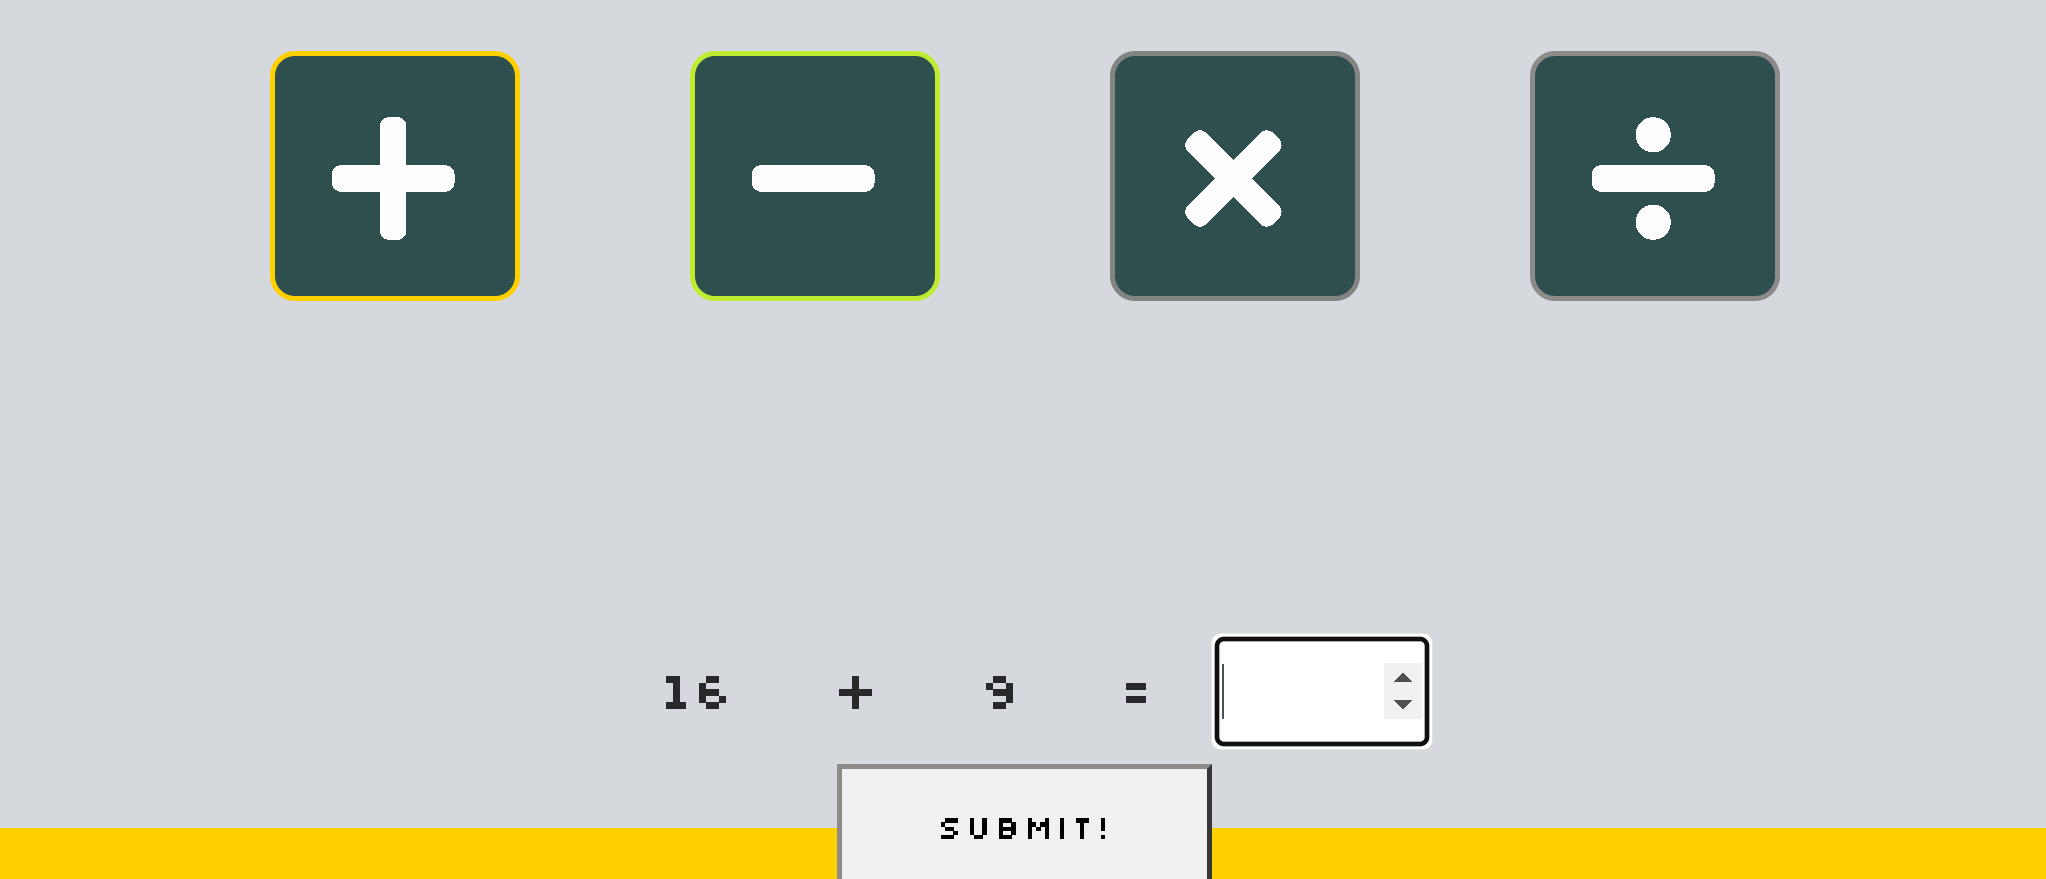
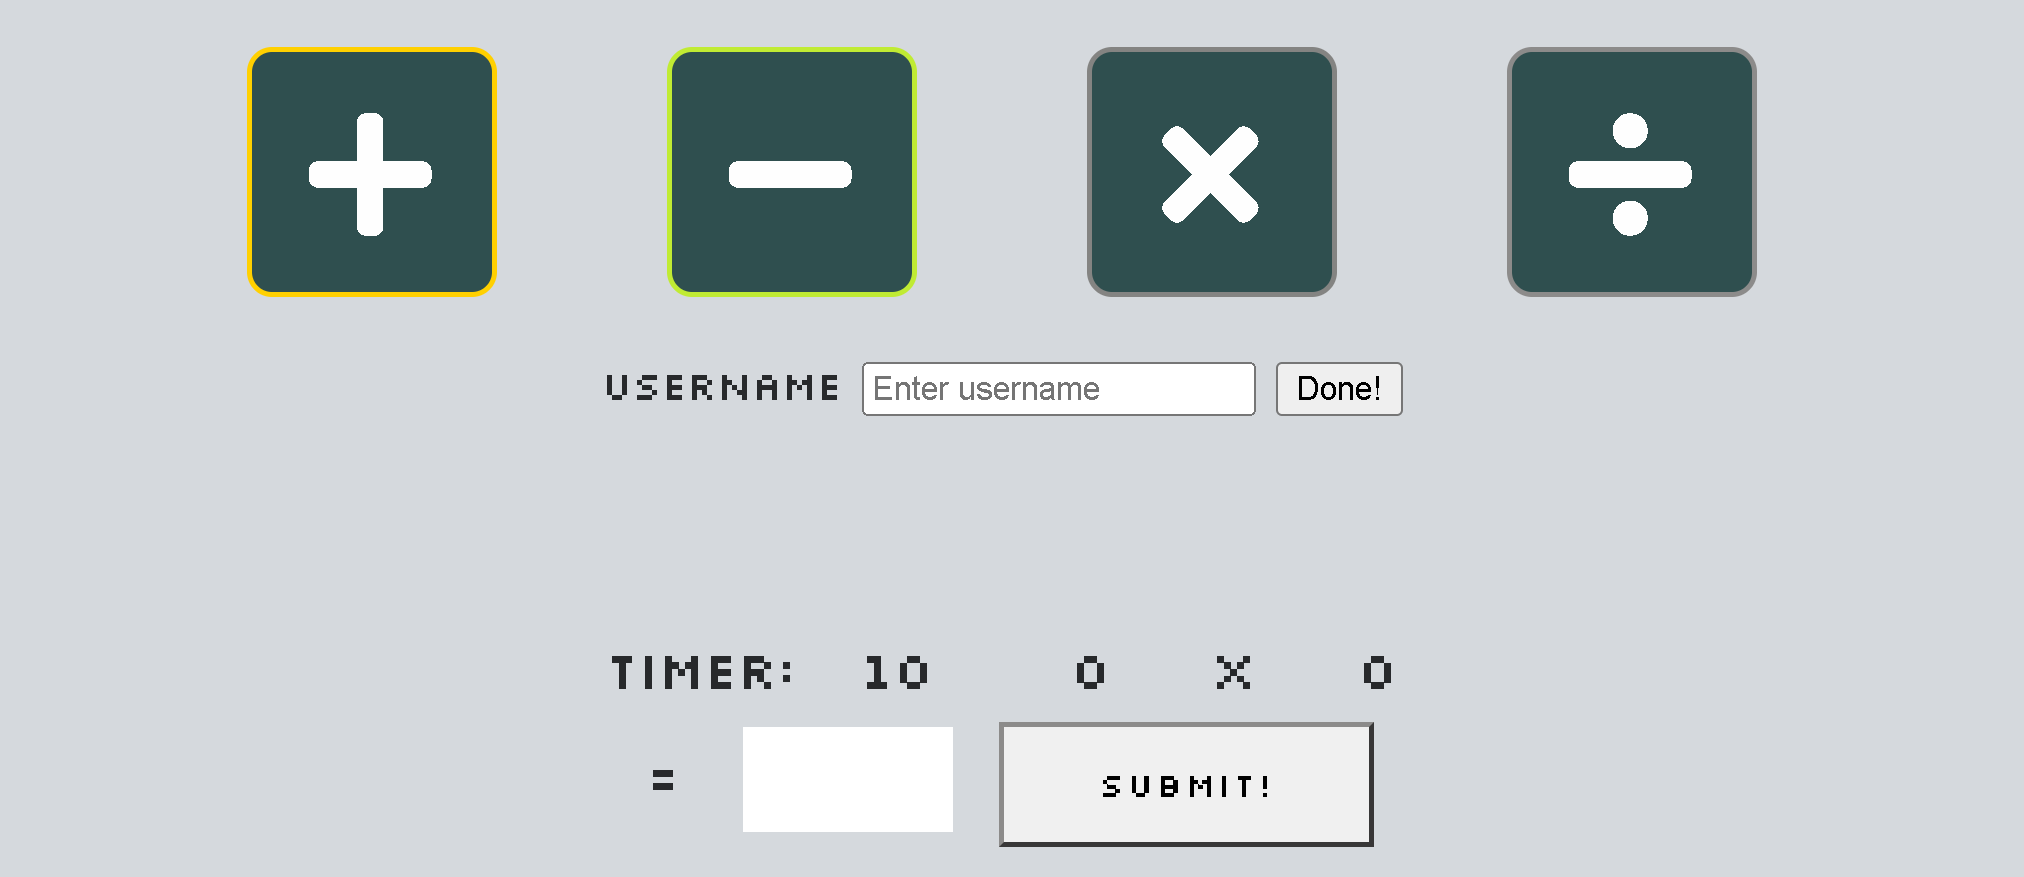
Update images and text in readme

diff --git a/README.md b/README.md
@@ -90,8 +90,10 @@ The landing page consists of a heading, a game section and a score section. The 
 ### Game Section
 ![Game section](documentation/game_section.png)
 
-- In the game section there are four buttons which gives the user the opportunity to choose between the four calculation methods. Below the buttons you find the randomly generated numbers together with the calculation method of choice. To the right you find the answer-box in which you can type the answer. The player can dial in the answer either with the keyboard or by using the arrows in the answer-box. To submit the answer the player can either click the "submit"button or hit "enter" on the keyboard. A feedback text will appear on the screen, displaying feedback to the user. A timeout of three seconds will engage before another challenge will appear. When the player wants to change calculation method, it's easily done by clicking another of the four buttons displaying the methods.
-![Correct answer](documentation/correct_answer.png)
+- In the game section there are four buttons which gives the user the opportunity to choose between the four calculation methods. Below the buttons you find the randomly generated numbers together with the calculation method of choice. To the right you find the answer-box in which you can type the answer. The player can dial in the answer either with the keyboard or by using the arrows in the answer-box. To submit the answer the player can either click the "submit" button or hit "enter" on the keyboard. A feedback text will appear on the screen, displaying feedback to the user. A timeout of three seconds will engage before another challenge will appear. When the player wants to change calculation method, it's easily done by clicking another of the four buttons displaying the methods. The following feedback message will be displayed when the user submits the correct answer in the answer box:
+![Correct answer](documentation/correct_player.png)
+The following feedback message will be displayed when the user submits the incorrect answer in the answer box:
+![Incorrect Answer](documentation/incorrect_player.png)
 
 #### Score section
 ![Score section](documentation/score_section.png)
@@ -150,6 +152,7 @@ These warnings cause no trouble in the functionality of the game so they are lef
 
 ### Input Testing
 - When the player inputs the answer into the answer-box, the feedback text will return feedback to the user, either confirming the users correct answer or telling the player what the correct answer should be. If the player has not put an answer in the answer-box and clicks "submit" the feedback will tel the player that the answer is NAN, followed by the correct answer.
+![Answer is NAN](documentation/answer_nan.png)
 
 ### Button Testing
 - When hovering over the buttons with the mouse, the colours will change slightly to indicate that the player is about to choose the particular option the button provides. When clicked, the buttons with the calculation methods instantly will provide random numbers. When the "submit"-button is clicked, the game will return feedback to the player. All buttons have been tested and work properly. 
@@ -166,7 +169,7 @@ These warnings cause no trouble in the functionality of the game so they are lef
 No user has reported any problems with the game.
 
 ### Known Bugs
-- No known bugs.
+- When timer reaches 0, the "Your time is up!"-message displays forever - it should only be visible for one second.
 - The game throws an alert when the user submits the username: "Something amiss!"
 
 
